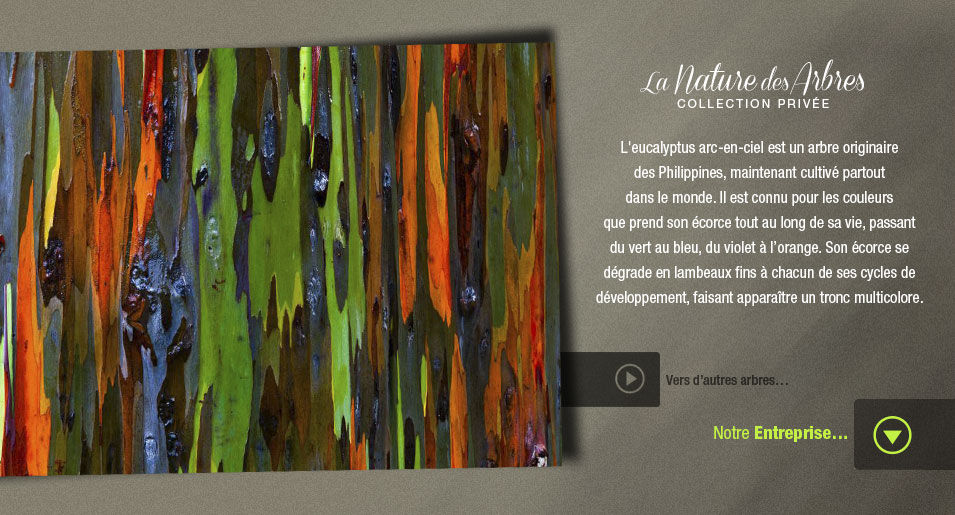
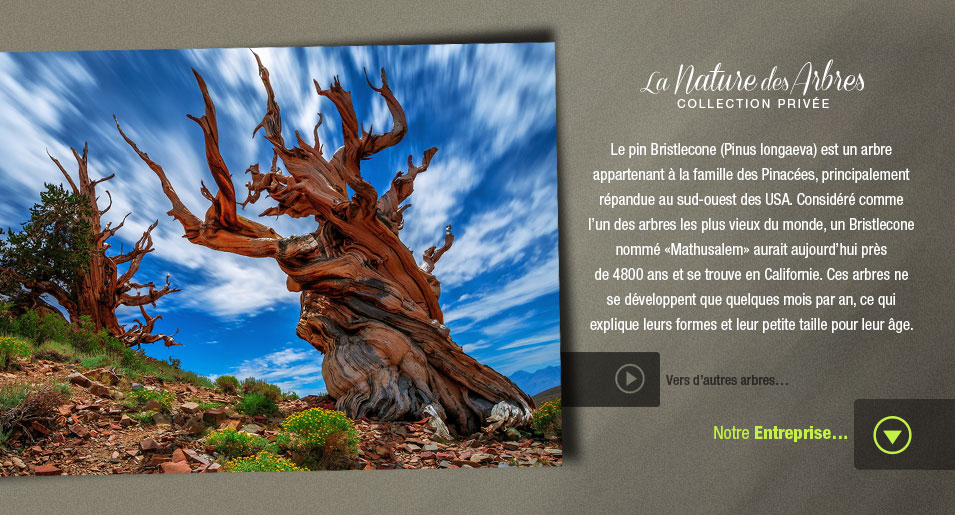
Modification de visuels emailing

diff --git a/index.html b/index.html
@@ -28,26 +28,20 @@
       <div id="myCarousel" class="carousel slide">
         <div class="carousel-inner">
     <div class="active item">
-      <div style="background: url('assets/img/visu12.jpg'); width: 955px; height: 515px"></div>
+      <div style="background: url('assets/img/visu1.jpg'); width: 955px; height: 515px"></div>
     </div>
     <div class="item">
       <div style="background: url('assets/img/visu2.jpg'); width: 955px; height: 515px"></div>
     </div>
     <div class="item">
-      <div style="background: url('assets/img/visu1.jpg'); width: 955px; height: 515px"></div>
-    </div>
-    <div class="item">
       <div style="background: url('assets/img/visu3.jpg'); width: 955px; height: 515px"></div>
     </div>
     <div class="item">
-      <div style="background: url('assets/img/visu11.jpg'); width: 955px; height: 515px"></div>
+      <div style="background: url('assets/img/visu4.jpg'); width: 955px; height: 515px"></div>
     </div>
-	  <div class="item">
-	    <div style="background: url('assets/img/visu10.jpg'); width: 955px; height: 515px"></div>
-	  </div>
-	  <div class="item">
-	    <div style="background: url('assets/img/visu9.jpg'); width: 955px; height: 515px"></div>
-	  </div>
+    <div class="item">
+      <div style="background: url('assets/img/visu5.jpg'); width: 955px; height: 515px"></div>
+    </div>
         </div>
       </div>
     </div>
